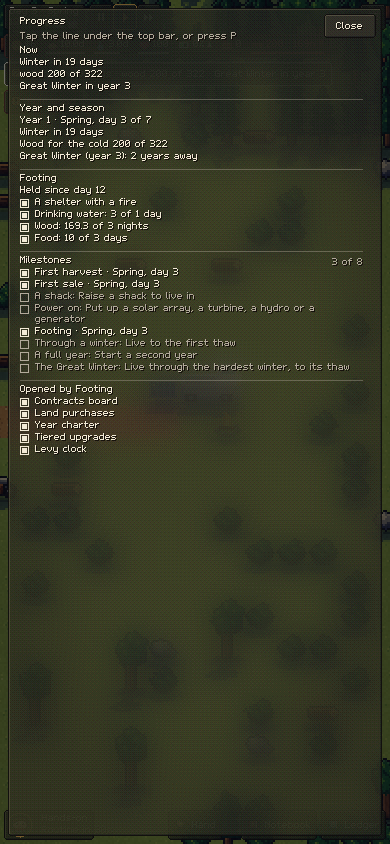
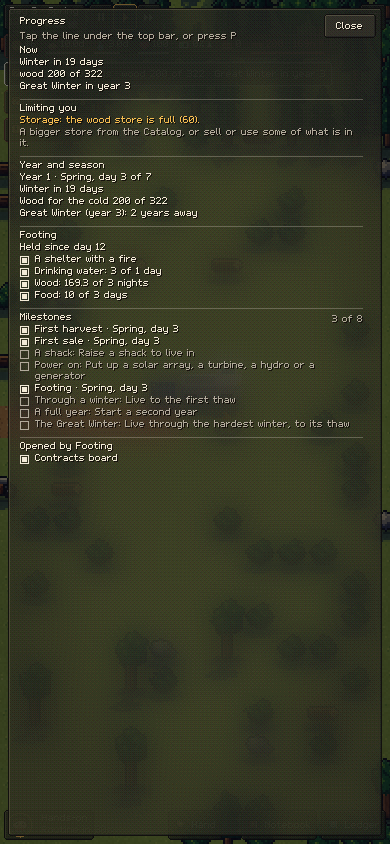
Opened by Footing list, GDD fold of the built M8 systems, M8 screen scenarios (#456, #391, #393) (#459)
The Progress panel's Opened by Footing list names only the contracts board; the GDD describes the built M8 systems and PLAN_DEPTH is marked built; the seven M8 screen scenarios pass at every size (eventcard expects the next-morning Strained, D173), goal screenshots refreshed.

diff --git a/docs/GDD.md b/docs/GDD.md
@@ -120,6 +120,7 @@ The game is **endless**: there is no hard win state, only "until you fail" (D117
 - **Headline metric: years survived.** The recovery screen shows the run's years against the slot's best and the last run.
 - **Late-game metric: best year's income.** Money earned from sales in one game year, spending ignored. It is shown against the slot's best, so a run that has outgrown dying still has a number to beat.
 - **Run milestones.** A short checklist per run (first winter, power, a shack, fed for a year), from existing events and notes, shown on a Progress panel. *Built (#342, D163):* eight milestones in `data/content/milestones.lua`, run state, ticked on the panel the goal line under the top bar opens (P key).
+- **What is limiting you (D202).** The Progress panel's second section names the first limit that holds, in the order water, field labour, storage, market (`systems/bottleneck.lua`, accessors only), with its figures and one line of what helps, or says nothing is holding the homestead back. It replaced the planned workload meter. The panel's last section, **Opened by Footing**, lists what Footing opens: the contracts board (§6.4) and any catalog item flagged `requiresFooting` (none ships yet).
 - **The Great Winter and "Established".** Winter of year N (a tuning value, 3 to start) is the hardest the run has seen, and is announced early. Surviving it to the thaw fires a one-time "Established" card and marks the slot. Play then continues as before. It has no mechanical reward.
 - **Journal completion %** shows on the slot screen as the long-term meta bar.
 
@@ -213,6 +214,8 @@ Defaults are sensible, so a new player never has to touch this. The Pantry shows
 - **Order anytime, it gets delivered.** Deliveries arrive after a delay (e.g. next morning) at the **drop-off point** where your road meets the plot. Where you build storage relative to the road matters. Small delivery fee. Snow can delay winter deliveries.
 - **Pickup only:** animals and oversized items (and trailer-dependent ones) must be collected on a truck trip.
 - **Purchase limits (D114, D115):** every item is **unique** (one ever: the stand, buildings like the woodshed and stove, gear), an **upgrade** that replaces its predecessor (camp -> shack, basic -> sturdy rod, plain -> big bucket, the stand's sign, cooler and rack), **repeatable** (pens, cisterns, power gear, auto-harvester, pumps) or a **consumable**. An item you already own stays in the list labelled **Owned**; the full table is in D114.
+- **Tiers I to III (D198).** Eleven ladders (rod, bucket, axe, stove, cistern, smoker, solar array, stand, coop, goat pen, truck bed) are the catalog's money sink. Tier I is the plain item; each later tier costs 2.5 times the one below, replaces it and requires it owned. The first tier I purchase opens the tier II ideas and the first tier II the tier III ones; tier III also needs contracts finished (reputation, §6.4). Tiers have no upkeep, and no tier is needed for Footing.
+- **Night guards (D203).** The lantern, the farm dog and the bear box are unique equipment, each learned from the note its own threat writes (fox, raccoon, bear). An order for equipment the run already holds, or holds a better tier of, by the time it arrives is refunded.
 - **Random specials:** a few discounted or rare items each week. Some are **in-store only** (a reason to drive).
 
 ### 6.4 Selling
@@ -253,6 +256,8 @@ Prices vary week to week. Some goods are in demand. Preserved goods sell for mor
 - **Free placement on the grid:** fields are tile areas. Buildings have footprints and placement rules. Objects go on any buildable tile (grass or tilled soil; roads and water never), subject to their own rules; trees, rocks, logs, brush and crops in the way are cleared or removed first (D79).
 - **Walking distance matters.**
 - Buildings are composed from **components**: `Producer`, `Consumer`, `Storage`, `PowerSource`, `PowerSink`, `Battery`, `Upgradeable`, `Freezable`, `HeatSource`, `AreaOfEffect`, `Processor`, `Shop` (roadside stand)...
+
+*Built (M8, D177 to D185): fields and soil.* Eleven annual crops carry a plant window, tender or hardy frost, a water appetite, a fertility draw and a rotation family (`data/content/crops.lua`); berry canes and an apple tree are perennials that give a first small crop the season after planting and a full one after a winter (D183). Each field tile has a **fertility** that a harvest draws down and a fallow restores (the Soil lens on the Plan field tool shows it), a **pest pressure** that grows when a family repeats and falls when you rotate, and **weeds** that sprout on a timer and are pulled by a routine task or held off by straw mulch. Blight touches only a crop on a tile at full pressure and spoils that harvest, never spreading. A compost bin turns hen and goat manure (raked by the Tend chores) into compost the routine spreads on the most worn tile. Together these never cut a yield below `farming.minSoilMultiplier` (0.6), and healthy soil grades a harvest **fine** (x1.3 price) instead of normal. Every upkeep task is ON in the default routine, so neglect costs a share of yield and never a loss (D185).
 
 ### 7.4 Tasks, actors & priorities (the systemic core)
 
@@ -338,6 +343,8 @@ The **cat**. **Town** (text only, via the truck and catalog). **Search & rescue*
 - **Early frost**: one autumn morning kills a share of unripe crops; ripe ones are fine. Counter: **Frost cloth**.
 - Each threat is announced a few days ahead (toast and a forecast pill), and ends with a summary toast ("Locusts passed: 4 crops lost, 3 saved by row covers"). Its first strike writes a Field Journal note that makes its countermeasure an idea, so the knowledge carries into the next run. The countermeasures are equipment bought once a run. With nothing in the ground a threat comes and goes without effect; the routine replants lost crops.
 
+*Built (M8, D169 to D195, D203): nights and misfortune events.* One night slot a night is shared by the event engine and the night threats, and one **exposure** (shown on the Tonight card as a word, low, medium or high, with what drives it) scales both. **Night threats** are planned at dusk and land at 23:00: mice, the fox, the raccoon, deer and rabbits (a browsed crop gives less, it never dies), the black bear, the cold front (a forecast miss) and the pipe freeze. The farm dog, the lantern and the bear box add guards to one guard roll, each covering some threats, not all (§4.2, D187 to D191). **Misfortune events** are two-option cards with a safe, non-escalating ignore outcome, answered on the event card (D172): eight body events, five home events (damage mends itself), three land events (crops are set back, never lost) and five visitor and luck cards (never a misfortune; D173, D192 to D194). A **wake** event costs only that night's study, and Tired comes only from an option the player picks (D195). Mercy rules key on Footing and reserves (D169, D175); standing orders answer events for the idle player (D176); Techniques add options (§8.2, D199).
+
 ### 7.10 Fishing
 
 A **headline activity**: a satisfying skill toy and a collection.
@@ -394,6 +401,7 @@ A **headline activity**: a satisfying skill toy and a collection.
   - **Habits** (idle): shorter idle takeover, better idle efficiency, more priority options.
   - **Weather sense**: earlier or more accurate forecasts.
   - **Discoveries**: new crops, fish, animals, events in future runs.
+  - **Techniques** (D199): knowledge that changes what an event offers. **Bandaging** spares the hour a cut costs, **Splinting** adds a third option on a sprain and a cheaper splint on a tear, **Haggling** takes a fifth off the peddler's prices. The first-aid kit is one starter-catalog consumable that adds a third option to five body events while one is in stock.
 - *Built (M3):* perks are content (`data/content/perks.lua`) sharing one id space with the catalog as journal nodes. Run-start effects (`startingResources`, `startingEquipment`, `truckCharge`) are handed out once per run by `src/sim/systems/perks.lua`; `modifiers` (`idleTakeover`, `idleEfficiency`, `forecastLead`, ...) apply through `src/sim/stats.lua` like equipment. Discoveries are not in yet.
 
 ### 8.3 Journal UI: a visual map, not text
@@ -424,6 +432,8 @@ The journal is a **knowledge map**, not pages of prose. It's an interactive layo
 Land (§7.3), forecast and threat order, weekly catalog specials, "pick 1 of 3" finds, random events. All randomness uses a **seeded RNG per run** (reproducible for testing and bug reports).
 
 *Built (M5, #38): finds* (`src/sim/systems/finds.lua`, content `data/content/finds.lua`, knobs `data/tuning/finds.lua`, modal `src/scenes/finds.lua`, D53). A daily seeded roll queues an offer, shown as a modal of three distinct finds when the homesteader is not resting or fishing; pick one and its data effects apply.
+
+*Built (M8, D200, D201): choosing the next run.* From run 2 the recovery screen offers, both optional, **Choose land** (three real plots from the next seeds, each with trait levels and a risk and reward tag; skipping takes the first) and a **Starting kit** (five loadouts, each a bundle of existing items with one small penalty, each opened by a Journal node). Year charters and ascension mutators are deferred to M10 (D184).
 
 ---
 
@@ -576,6 +586,8 @@ Tap or keyboard focus **previews**; hover never does. The draft is kept for the 
 
 The **first run is meant to fail**, ideally while still feeling close. Runs 3–5 should be the first to clear Year 1.
 
+Since M8 the first nights have a goal of their own: the Tonight card at dusk names what is short for the night, and **Footing** (a shelter with a fire and wood, food and water stocked, five nights in a row, §4.2) moves the goal to the season and opens the contracts board. Night threats and misfortune events start mild and lean on the mercy rules while Footing is not held. These are first guesses; the M9 balance pass paces them.
+
 ---
 
 ## 12. Technical architecture (modularity pillar)
@@ -659,7 +671,7 @@ Headless sim tests, plus a **balance harness** that simulates years with scripte
 | **M5** | Power network (array, battery), well + pump, cat & mice, roadside stand, weekly specials, finds. | Hands-on → hands-off. |
 | **M6** | Chickens & goats, Year 2+ threats, auto-harvester, priority thresholds. | Second half of the game. |
 | **M7** | Cattle, mini-tractor, more content, art pass, audio. | Depth and feel. |
-| **M8** | **Homestead depth, trimmed (D184)**: Footing and the Tonight card, statuses and events, night threats (mice, fox, raccoon, deer, bear, dog, cold front, lantern), fields and soil, market saturation and contracts, tiers I to III, plot preview, loadouts, Techniques. 18 build steps, see [docs/PLAN_DEPTH.md](PLAN_DEPTH.md) §17. | A core loop with something to manage and no upkeep chores. |
+| **M8** | **Homestead depth, trimmed (D184)**: Footing and the Tonight card, statuses and events, night threats (mice, fox, raccoon, deer, bear, dog, cold front, lantern), fields and soil, market saturation and contracts, tiers I to III, plot preview, loadouts, Techniques. 18 build steps, see [docs/PLAN_DEPTH.md](PLAN_DEPTH.md) §17. **Built** (D159 to D203), folded into §4 to §8 and §11. | A core loop with something to manage and no upkeep chores. |
 | **M9** | **Balance and pacing**: idle at 40 to 60 percent of active is the primary target. | The loop is paced for idle and active play. |
 | **M10** | **Post-launch depth (D184)**: processing, hired hand, owned land, charters, ascension, wolves. | Depth the cozy and idle pillars did not need before launch. |
 

diff --git a/docs/PLAN_DEPTH.md b/docs/PLAN_DEPTH.md
@@ -1,6 +1,8 @@
 # Plan: homestead depth (the core loop)
 
-Status: approved; milestone and issues created (section 17). Nothing here is built. When approved it becomes milestone **M8: Homestead depth** (section 17), and the GDD (§4, §5, §6, §7, §8, §9, §11) and the decision log take the parts that are built, one slice at a time.
+**Status (D203, #391): M8 is built**, except the slices the depth trim moved to M10 (processing, hired hand, owned land, charters, ascension, wolves) or cut (wear, maintenance items, mule and sleep debt, levy, recurring costs, stove fire, windstorm and power outage). The built parts are folded into the GDD (§4.2, §4.4, §6.3, §6.4, §7.3, §7.9, §8.2, §8.4, §11, §13); the "Built" callouts and the "Done" marks in section 17 say what each slice became. This document is now a record; the GDD wins where they differ.
+
+Original status: approved; milestone and issues created (section 17). Nothing here was built yet. When approved it becomes milestone **M8: Homestead depth** (section 17), and the GDD (§4, §5, §6, §7, §8, §9, §11) and the decision log take the parts that are built, one slice at a time.
 
 Why this exists: playtest feedback says the base systems are in but the loop is thin. Once the player has seeds they steamroll, there is little to manage, and the idle loop has nothing to do. A read of the design, content and balance notes agrees (section 1).
 
@@ -583,15 +585,15 @@ Issues are written to be done by an agent alone: each states its goal, design re
 - A1 (#340) Dusk check: the Tonight card and a `Readiness.tonight` accessor. **Done (D161).**
 - A2 (#341) Footing state machine (earned, slipped, regained), events, save. **Done (D162).**
 - A3 (#342) Goal ladder in the HUD and Progress panel: the pressing goal line, locked gates. **Done (D163).**
-- A4 (#343) Gate framework: a `requiresFooting` flag in content, read by Catalog, Contracts, Land, Charters.
+- A4 (#343) Gate framework: a `requiresFooting` flag in content, read by Catalog, Contracts, Land, Charters. **Done (D164).**
 - A5 (#344) Harness: Footing metrics and an early-game pacing report. **Done (D165).**
 
 **Phase B: Status and events**
-- B1 (#345) Status system (sim) and stat-modifier integration.
-- B2 (#346) Status chips and detail UI.
+- B1 (#345) Status system (sim) and stat-modifier integration. **Done (D166).**
+- B2 (#346) Status chips and detail UI. **Done (D167).**
 - B3 (#347) **Done (D169).** Event engine: content schema, scheduler, exposure, mercy rules, pending queue, ignore window, `event` RNG stream, journal note on first. **Amended (D168):** designed with C1 (one exposure, one nightly slot, 5); mercy rules key on Footing and reserves (6.5); ignore window has a real-seconds floor and time never freezes (6.3); ships with the event-choice harness policies (careful, bold, ignore, random), the spiral metrics, a `human` policy and paired events-on/off seeds; C8 follows it.
 - B4 (#348) **Done (D172).** Event card UI: two options, costs, risks, ignore line, touch and keyboard, phone layout. **Amended (D168):** ships with B3 and B6; one card at a time in the ranked notice queue (principle 8).
-- B5 (#349) Standing orders (Ask, Careful, Bold) and the "Rules of thumb" perk. **Amended (D168):** Careful respects keep targets and falls back to ignore with a morning-report line (6.4); carries the careful/bold/random harness policies.
+- B5 (#349) Standing orders (Ask, Careful, Bold) and the "Rules of thumb" perk. **Amended (D168):** Careful respects keep targets and falls back to ignore with a morning-report line (6.4); carries the careful/bold/random harness policies. **Done (D176).**
 - B6 (#350) **Done (D173).** Body events pack. **Amended (D168):** the first events pack, shipped with B3 and B4; ignore outcomes are safe and non-escalating (6.2); Fever never fires on a night that already cost cold damage.
 - B7 (#351) Home events pack. **Amended (D168):** lands after F1 wear and G3 tiers. **Simplified (D184):** no wear or tier dependency; keeps roof leak, tarp torn, frozen pump, tool breaks and flue clogged; cuts truck fault and power surge. **Done (D192).**
 - B8 (#352) Land events pack. **Amended (D168):** lands after D, and possibly G1. **Simplified (D184):** late frost, storm-felled tree and livestock in the field; cuts hornets and washout; no G1 dependency. **Done (D193).**
@@ -609,8 +611,8 @@ Issues are written to be done by an agent alone: each states its goal, design re
 - C8 (#362) **Done (D171).** Winter wood is a stockpile problem, not an on-demand chop (tracked with #65, #202, #251). **Amended (D168):** pulled forward to right after B3. Unowned tiles can be chopped (Q12, D170). Built as a per-season allowance on wood from trees (`tuning.wood.fellAllowance`, winter 24, first guess), shown on the Tonight and readiness cards; the keep logic and the balance numbers of #202 and #251 are unchanged (M9).
 
 **Phase D: Fields and soil**
-- D1 (#363) Crop schema and 8 new crops (content, journal pages, seed items).
-- D2 (#364) Soil fertility and the overlay.
+- D1 (#363) Crop schema and 8 new crops (content, journal pages, seed items). **Done (D177).**
+- D2 (#364) Soil fertility and the overlay. **Done (D178).**
 - D3 (#365) Rotation families and pest pressure. **Simplified (D184, #430), done (D185):** blight marks crops on full-pressure tiles only (`blight = { chance, dryFactor }` in threats content), spoils only that harvest, never spreads. Pressure shows only on the tile card.
 - D4 (#366) Weeds, weeding task, mulch. **Simplified (D184, #430), done (D185):** `weedCut` 0.4 to 0.15, `maintenance` moved above planting in the default routine.
 - D5 (#367) Compost bin and manure loop. **Simplified (D184, #430), done (D185):** no haul task; the bin draws from the ledger and the routine fertilizes the lowest-fertility worn tile.
@@ -619,8 +621,8 @@ Issues are written to be done by an agent alone: each states its goal, design re
 - D8 (#370) Routine categories and conditions for the new tasks. **MERGED (D184)** into D-simplify #430: every upkeep task ON by default, plus the idle-day chore test.
 
 **Phase E: Market**
-- E1 (#371) Saturation model for truck and stand. **Kept (D184);** absorbs E4 and #106; the cap shows on the truck screen only.
-- E2 (#372) Reputation and the contracts board; standing orders. **Simplified (D184):** 3 contracts every 7 days, reputation is a count of contracts finished, a missed one just expires, no quality tiers; the repeating standing contract stays.
+- E1 (#371) Saturation model for truck and stand. **Kept (D184);** absorbs E4 and #106; the cap shows on the truck screen only. **Done (D196).**
+- E2 (#372) Reputation and the contracts board; standing orders. **Simplified (D184):** 3 contracts every 7 days, reputation is a count of contracts finished, a missed one just expires, no quality tiers; the repeating standing contract stays. **Done (D197).**
 - E3 (#373) Processing recipes and stations. **DEFERRED (D184)** to M10.
 - E4 (#374) Market day and the peddler. **MERGED (D184)** into E1 #371 (the last day of a season gives a stand and truck bonus); the peddler goes to B9.
 
@@ -634,22 +636,22 @@ Issues are written to be done by an agent alone: each states its goal, design re
 **Phase G: Money and land**
 - G1 (#380) Owned-area mask and land purchase. **DEFERRED (D184)** to M10.
 - G2 (#381) Land levy with soft failure. **CUT (D184, closed).** Q3: no levy.
-- G3 (#382) Tiered upgrade framework; convert existing items. **Simplified (D184):** tiers I to III, catalog only, no upkeep.
+- G3 (#382) Tiered upgrade framework; convert existing items. **Simplified (D184):** tiers I to III, catalog only, no upkeep. **Done (D198).**
 - G4 (#383) Recurring costs and the upkeep ledger. **CUT (D184, closed).** #118 becomes the cat and dog eating from the ledger.
 
 **Phase H: Run variety**
-- H1 (#384) Plot preview.
+- H1 (#384) Plot preview. **Done (D200).**
 - H2 (#385) Year charters. **Amended (D168):** lands after E, F and G; no draft while slipped. **DEFERRED (D184)** to M10.
-- H3 (#386) Starting loadouts.
+- H3 (#386) Starting loadouts. **Done (D201).**
 - H4 (#387) Ascension mutators. **DEFERRED (D184)** to M10.
 - H5 (#388) Journal Techniques page. **Kept (D184);** absorbs B10 #354. **Done (D199):** three techniques (Bandaging, Splinting, Haggling).
 
 **Phase I: Integration**
 - I1a (#389) Harness policies for the new systems (smoke testing only). **Amended (D168):** the event-choice policies moved to B3 and B5. The full balance pass is I1b (#396) in M9. **Shrunk (D184)** to the surviving systems; #410 adds idle gates and is promoted. **Done (D203):** harness features `guards` (night guards and night-threat counters) and `threats` (field-threat counters, a warned threat's first, #153), on in `all`; trips go for a fillable contract; a report line counts answers bought and contracts filled. Loadouts were already playable (`loadout=`, D201); the plot preview is left to the default plot.
 - I2 (#390) FTUE and tip updates for each phase. **Done (D202):** nine first-run tips (Tonight, an event, night visitors, a status, a Footing slip, what limits you, rotation, weeds, contracts), none for the cut or deferred upkeep, levy and land; and the recovery summary (#156) lists the night threats, field threats and bad events of the run and names what hurt most (one line on a short view).
-- I3 (#391) Merge into GDD, wiki and decision log.
+- I3 (#391) Merge into GDD, wiki and decision log. **Done:** folded into the GDD; the wiki follows at the next release tag.
 - I4 (#392) Perf and save-size check. **Done (D203):** inside the budget; 64x48 mean 0.022 ms a tick, 0.75 KB a tick, save 116 KB (fertility 8 KB of it); default 128x80 0.070 ms, 0.78 KB, 307 KB, of which objects 118 KB (#248). No M8 hot spot; docs/PERF.md.
-- I5 (#393) Driver scenarios and screenshots.
+- I5 (#393) Driver scenarios and screenshots. **Done:** the `tonight`, `footing`, `eventcard`, `status`, `contracts`, `goal` and `rescue` scenarios cover the built screens; the upkeep ledger, land purchase and charter draft were cut or deferred.
 
 Status (D184): trimmed to 18 build steps; five slices and wolves moved to milestone **M10: Post-launch depth**, seven cut, five merged, new issue #430. Original status: milestone **M8: Homestead depth** and issues #340 to #393 are created (one per slice, titled `[M8 <id>]`). Slice C8 (winter wood as a stockpile problem) was added during the issue review and is tracked by #65 with #202 and #251.
 
